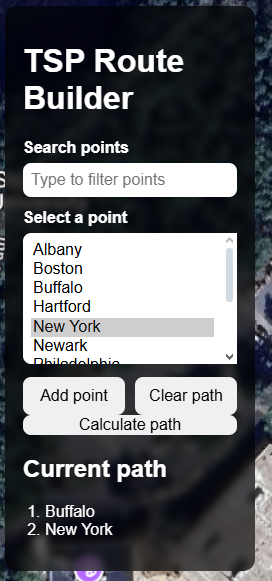
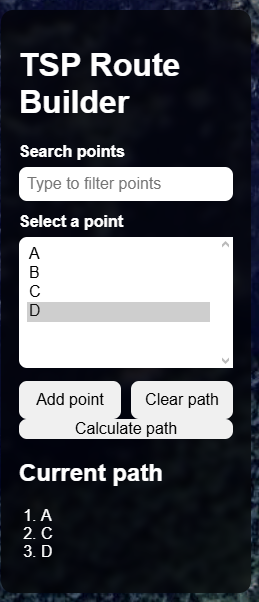
Final Push for TICS-FInal-Report.md & README.md files.
Additional changes to the pictures and details in both files.

diff --git a/Documentation/TICS-FInal-Report.md b/Documentation/TICS-FInal-Report.md
@@ -22,6 +22,7 @@ Since it will be used by both new and older students alike, we made sure to make
 
 ## Software Architecture: 
 - There was no specific design pattern in mind when starting this project, however it was known from the start that we were going to use a TSP while integrating components of the Floyd-Warshall method.
+- There was usage of ChatGPT in this project that helped with some ideas for some of the Front-End Conceptualization, which was not used. Additionally, it was used for most of the code in [MainServer.java](/src/main/java/MainServer.java) and some ideas were used for some other code brackets as well, but none were copied and pasted right into the file for those concepts.
 - The main components of the software are:
     - A Maven build
     - Floyd-Warshall
@@ -39,6 +40,7 @@ Since it will be used by both new and older students alike, we made sure to make
 This project was very interesting for all of us to process and try to work through. Due to the nature of the semester, we tried to do something a bit more simplistic than what we actually achieved to do due to time constraints, but it was still extremely close to the wire on what the finished product would have been. There was much to learn, including the addition of Maven, the Spotify POM files for simplicity and simplifying, trying our hand at mixing both a TSP and Floyd-Warshall method together to combine into a total calculator for the Stockon Campus. Additionally, just how many doors and entrances the Stockton Campus actually has was eye-opening.
 
 We continuously stated during the project that our goal was to do the whole campus, including the science wings and all of the main campis building, however, due to the time constraints of it being within the course time, and due to other classes also taking up a majority of our time, we had to cut a significant chunk of what we were willing to do. Other than the time constraints, the project was an extremely informative and knowledgeable dig into how to use the *Chips-n-Salsa* resource and the algorithms inside.
+
 ## Resources:
 - [*Chips-n-Salsa*](https://chips-n-salsa.cicirello.org)
 - [*Google My Maps*](https://www.google.com/maps/d/u/0/edit?mid=1j8Kd5MHKXVnJ9r8asANea8p6HhQWOuY&ll=39.49153912615076%2C-74.53232598664172&z=17)

diff --git a/README.md b/README.md
@@ -22,13 +22,15 @@ You can select multiple different points, to show from where you're coming from 
 
 ![After clicking...](/Documentation/Pictures/After-Clicking.png "Buffalo and New York were added")
 
-I have added 'Buffalo' and 'New York' to the list by Clicking the name, and then clicking the 'Add Point' Button.
+I have added 'A' and 'D' to the list by clicking the name, and then clicking the 'Add Point' Button.
 
-You can then either add more points, or you can press 'Calculate Path which will output the points and tell you the total Feet that will be needed to travel:
+You can then either add more points, or you can press 'Calculate Path' which will output the points and tell you the total Feet that will be needed to travel:
 
-![This is where we put the FINAL feet estimation screenshot.](/ "")
+![Final Submission Screenshot](/Documentation/Pictures/Final-SS.png "These points will be actual names for you!")
 
-Or you can press the 'Clear Path' button, which will clear the entire path.
+As you can see, it tells us to go from C -> D -> A instead of the route we were taking before.
+
+You can then press the 'Clear Path' button, which will clear the entire path, or add addition points to go to the next place you must attend.
 
 
 **A [Report](/Documentation/TICS-FInal-Report.md) of all implementation and steps processed is located in the Report Folder.**
